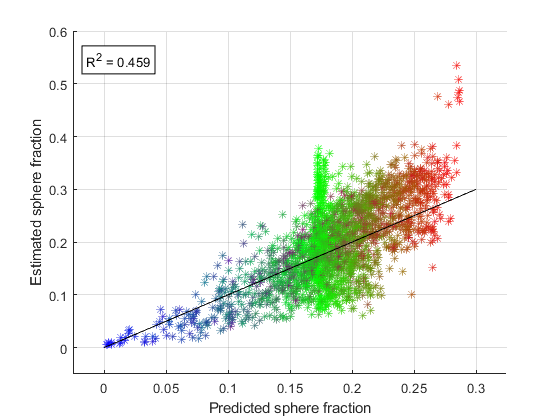
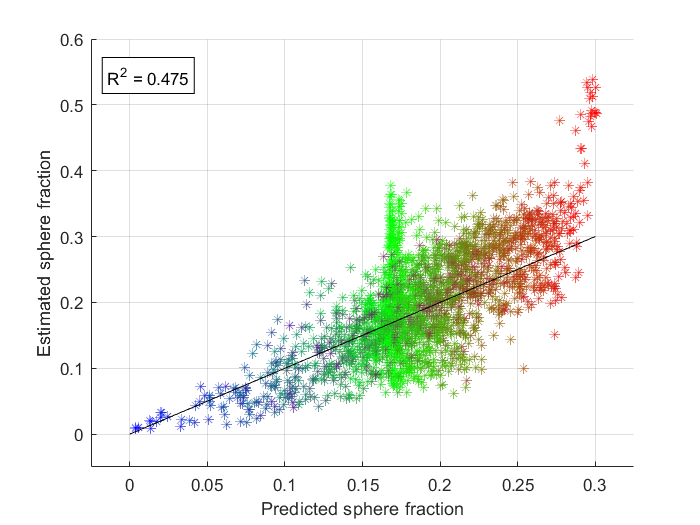
Update.

diff --git a/Scripts/Paper Figures/plot_error_maps.m b/Scripts/Paper Figures/plot_error_maps.m
@@ -6,7 +6,7 @@ projectfolder = pwd;
 %% Sample and image details
 
 % Sample
-SampleNum = 1;
+SampleNum = 3;
 SampleNames = {'20250224_UQ4', '20250407_UQ5', '20250414_UQ6', '20250522_UQ7', '20250523_UQ8', '20250524_UQ9'};
 SampleName = SampleNames{SampleNum};
 
@@ -75,6 +75,7 @@ MGE = load(fullfile(projectfolder, 'Imaging Data', 'MAT DN', SampleName, MGE_ser
 ResFactor = size(MGE)./size(error);
 
 error_large = zeros(size(MGE));
+sample_large = zeros(size(MGE));
 
 for rindx = 1:szmap(1)
     for cindx = 1:szmap(2)
@@ -85,6 +86,8 @@ for rindx = 1:szmap(1)
             slices = ((slindx-1)*ResFactor(3)+1:slindx*ResFactor(3));
 
             error_large(rows,cols,slices)=error(rindx, cindx, slindx);
+
+            sample_large(rows,cols,slices) = sum(COMPOSITION(rindx, cindx, slindx,:))>0;
 
         end
     end
@@ -98,7 +101,7 @@ disp(max(error_large(:)))
 
 
 % SAMPLE NUMBER
-snum = 'UQ9';
+snum = 'UQ6M';
 
 switch snum
     
@@ -176,11 +179,25 @@ ax2.FontSize = 14;
 
 
 
+ax3 = axes;
+ax3.Position = ax1.Position;
 
+% TEST stripes
+stripeWidth = 5/ResFactor(1);
+stripes = mod(floor((Xs+Ys)/stripeWidth), 2) == 0;
+stripes = stripes.*(squeeze(~sample_large(sl,:,:)));
+stripes = imgaussfilt(double(stripes), 1);
 
+% Overlay stripes as red transparent layer
+hOverlay = imagesc(ax3, xs, ys, double(stripes(xs, ys)));
+set(hOverlay, 'AlphaData', 0.6 * double(stripes(xs, ys)));  % 30% opacity
+colormap(hOverlay.Parent, 'gray');
 
-
-
+% Ensure overlay is on top
+uistack(hOverlay, 'top');
+ax3.Visible = "off";
+hold off;
+axis(ax3, 'tight');
 
 
 

diff --git a/Scripts/Paper Figures/plot_ROI_results.m b/Scripts/Paper Figures/plot_ROI_results.m
@@ -7,10 +7,10 @@ projectfolder = pwd;
 %% Sample, Image, and ROI
 
 % Sample
-SampleName = '20250414_UQ6'; % '20250224_UQ4', '20250407_UQ5', '20250414_UQ6', '20250522_UQ7', '20250523_UQ8', '20250524_UQ9'
+SampleName = '20250224_UQ4'; % '20250224_UQ4', '20250407_UQ5', '20250414_UQ6', '20250522_UQ7', '20250523_UQ8', '20250524_UQ9'
 
 % ROI
-ROIname = 'UQ6M Stroma'; 
+ROIname = 'UQ4B Lesion 3+4'; 
 % 'UQ4B Lesion 3+4'
 % 'UQ4M Lesion 3+4'
 % 'UQ4N Benign Glandular'
@@ -74,7 +74,7 @@ MAX = max([pred_ROI; img_ROI]);
 MIN = min([pred_ROI; img_ROI]);
 
 f=figure;
-f.Position = [423   113   939   729];
+f.Position = [423   0   939   729];
 tiledlayout(2,2,'Padding', 'compact', 'TileSpacing', 'compact');
 nexttile;
 axis off
@@ -135,11 +135,12 @@ hold on
 plot([MIN,MAX],[MIN,MAX], '--', color = 'k')
 xlim([MIN-0.02 MAX+0.02])
 ylim([MIN-0.02 MAX+0.02])
-xlabel('Predicted fIC')
-ylabel('Estimated fIC')
+xlabel('Predicted f')
+ylabel('Estimated f')
 grid on
 xticks(linspace(0,1,11))
 yticks(linspace(0,1,11))
+title('Ball + Sphere Model')
 
 % dEES
 MAX = max([pred_dEES; fit_dEES]);
@@ -152,8 +153,9 @@ plot([MIN,MAX],[MIN,MAX], '--', color = 'k')
 xlim([MIN-0.05 MAX+0.05])
 ylim([MIN-0.05 MAX+0.05])
 grid on
-xlabel('Predicted dEES (x10^{-3} mm^2/s)')
-ylabel('Estimated dEES (x10^{-3} mm^2/s)')
+xlabel('Predicted D_{out} (x10^{-3} mm^2/s)')
+ylabel('Estimated D_{out} (x10^{-3} mm^2/s)')
 grid on
 xticks(linspace(0,3,16))
 yticks(linspace(0,3,16))
+title('Ball + Sphere Model')

diff --git a/Scripts/Paper Figures/plot_modelling_results.m b/Scripts/Paper Figures/plot_modelling_results.m
@@ -176,7 +176,7 @@ new_composition(:,3) = composition(:,3);
 
 
 figure
-scatter(pred_params(1,:), fit_params(1,:),  '*', MarkerEdgeAlpha=0.4, CData=new_composition)
+scatter(pred_params(1,:), fit_params(1,:),  '.', MarkerEdgeAlpha=0.4, CData=new_composition)
 hold on
 plot([0, 0.3], [0, 0.3], 'k')
 grid on
@@ -212,7 +212,7 @@ text(0.03, 0.945, ['R^2 = ' sprintf( '%0.3f', R2) ], ...
 
 
 figure
-scatter(pred_params(4,:), fit_params(4,:),  '*', MarkerEdgeAlpha=0.4, CData=new_composition)
+scatter(pred_params(4,:), fit_params(4,:),  '.', MarkerEdgeAlpha=0.4, CData=new_composition)
 hold on
 plot([0.5, 2], [0.5, 2], 'k')
 grid on
@@ -238,7 +238,7 @@ text(0.03, 0.945, ['R^2 = ' sprintf( '%0.3f', R2) ], ...
 
 % AIC
 figure
-scatter(fit_params(1,:), fit_params(5,:),  '*', MarkerEdgeAlpha=0.4, CData=new_composition)
+scatter(fit_params(1,:), fit_params(5,:),  '.', MarkerEdgeAlpha=0.4, CData=new_composition)
 grid on
 xlim([-0.02, 0.57])
 ylim([-175, -95])

diff --git a/Scripts/ROIs/define_ROI.m b/Scripts/ROIs/define_ROI.m
@@ -6,7 +6,7 @@ projectfolder = pwd;
 %% Sample and image
 
 % Sample
-SampleName = '20250224_UQ4'; % '20250224_UQ4', '20250407_UQ5', '20250414_UQ6', '20250522_UQ7', '20250523_UQ8', '20250524_UQ9'
+SampleName = '20250414_UQ6'; % '20250224_UQ4', '20250407_UQ5', '20250414_UQ6', '20250522_UQ7', '20250523_UQ8', '20250524_UQ9'
 
 % Image
 SeriesDescription = 'STEAM_LongDELTA_120 (DS)';
@@ -37,7 +37,7 @@ imshow(squeeze(ImageArray(5,:,:)), [])
 
 %% Define slice range
 
-slices = 10:12;
+slices = 38:40;
 
 
 %% Define ROI
@@ -73,7 +73,7 @@ end
 %% Name and save ROI
 
 % Name 
-ROIname = 'UQ4M Lesion 3+4';
+ROIname = 'UQ6N Lesion 4+3';
 
 % Save
 save(fullfile(projectfolder, 'Scripts', 'ROIs', [ROIname '.mat'] ), "mask");

diff --git a/Scripts/SGL Signals/model_signals.m b/Scripts/SGL Signals/model_signals.m
@@ -21,12 +21,12 @@ nscheme = length(scheme);
 
 %% Modelling details
 
-components = {'G', 'S', 'L'};
+components = {'G', 'S'};
 
 modeltypes = {
-    'ADC',...
-    'DKI',...
-    'RDI - 1 compartment - 2 param (S0)',...
+    ...'ADC',...
+    ...'DKI',...
+    ...'RDI - 1 compartment - 2 param (S0)',...
     ...'RDI - 2 compartment - 3 param (S0)',...
     'RDI - 2 compartment - 4 param (S0)'
     };
@@ -42,7 +42,7 @@ modeltypes = {
 lambda = 0e-3;
 fittingtechnique = 'LSQ';
 
-DisplayPredictions = false;
+DisplayPredictions = true;
 
 
 for compindx = 1:length(components)

diff --git a/Scripts/Paper Figures/plot_signal_measurements.m b/Scripts/Paper Figures/plot_signal_measurements.m
@@ -40,8 +40,10 @@ errorbar(bvals+1*bshift, s(3,:,1), s(3,:,1)-s(3,:,3), s(3,:,4)-s(3,:,1), '-.*', 
 
 xticks(bvals); 
 xticklabels(bvals)
-ylim([-0.05,0.75])
+% ylim([0.18,0.68])
+ylim([-0.05, 0.75])
 ylabel('Normalized dMRI signal measurement')
+yticks(linspace(0.0, 1, 11))
 xlim([800,2200])
 xlabel('b-value (s/mm^{2})')
 xticks(bvals)
@@ -50,7 +52,7 @@ grid on
 legend('NumColumns', 2);
 ax=gca();
 ax.FontSize=12;
-f.Position = [488   242   720   480];
+f.Position = [488   242   720   600];
 
 
 %% ES contrast

diff --git a/Scripts/Preprocessing/downsampleImages.m b/Scripts/Preprocessing/downsampleImages.m
@@ -9,7 +9,7 @@ projectfolder = pwd;
 ImagingDataFolder = fullfile(projectfolder, 'Imaging Data');
 
 % Sample name
-SampleName = '20250524_UQ9';
+SampleName = '20250524_UQ9'; % '20250224_UQ4', '20250407_UQ5', '20250414_UQ6', '20250522_UQ7', '20250523_UQ8', '20250524_UQ9'
 
 % Series description
 SeriesDescriptions = {...
@@ -29,7 +29,7 @@ SeriesDescriptions = {...
 
 
 % Downsample settings (old function)
-downsamplewindow = [3,3,4]; 
+downsamplewindow = [3,3,2]; 
 overlap = false;
 
 % % Using imresize3

diff --git a/Scripts/Modelling/run_modelling.m b/Scripts/Modelling/run_modelling.m
@@ -6,7 +6,7 @@ projectfolder = pwd;
 %% Image details
 
 % Sample name
-SampleName = '20250224_UQ4'; % '20250224_UQ4', '20250407_UQ5', '20250414_UQ6', '20250522_UQ7', '20250523_UQ8', '20250524_UQ9'
+SampleName = '20250524_UQ9'; % '20250224_UQ4', '20250407_UQ5', '20250414_UQ6', '20250522_UQ7', '20250523_UQ8', '20250524_UQ9'
 
 % Series descriptions
 SeriesDescriptions = {...20250523_UQ8

diff --git a/Scripts/SGL Masks/masks.m b/Scripts/SGL Masks/masks.m
@@ -6,7 +6,7 @@ projectfolder = pwd;
 %% Sample and Image details
 
 % Sample name
-SampleName = '20250224_UQ4'; % '20250224_UQ4', '20250407_UQ5', '20250414_UQ6', '20250522_UQ7', '20250523_UQ8', '20250524_UQ9'
+SampleName = '20250414_UQ6'; % '20250224_UQ4', '20250407_UQ5', '20250414_UQ6', '20250522_UQ7', '20250523_UQ8', '20250524_UQ9'
 
 % Use denoised data
 UseDenoisedData = true;
